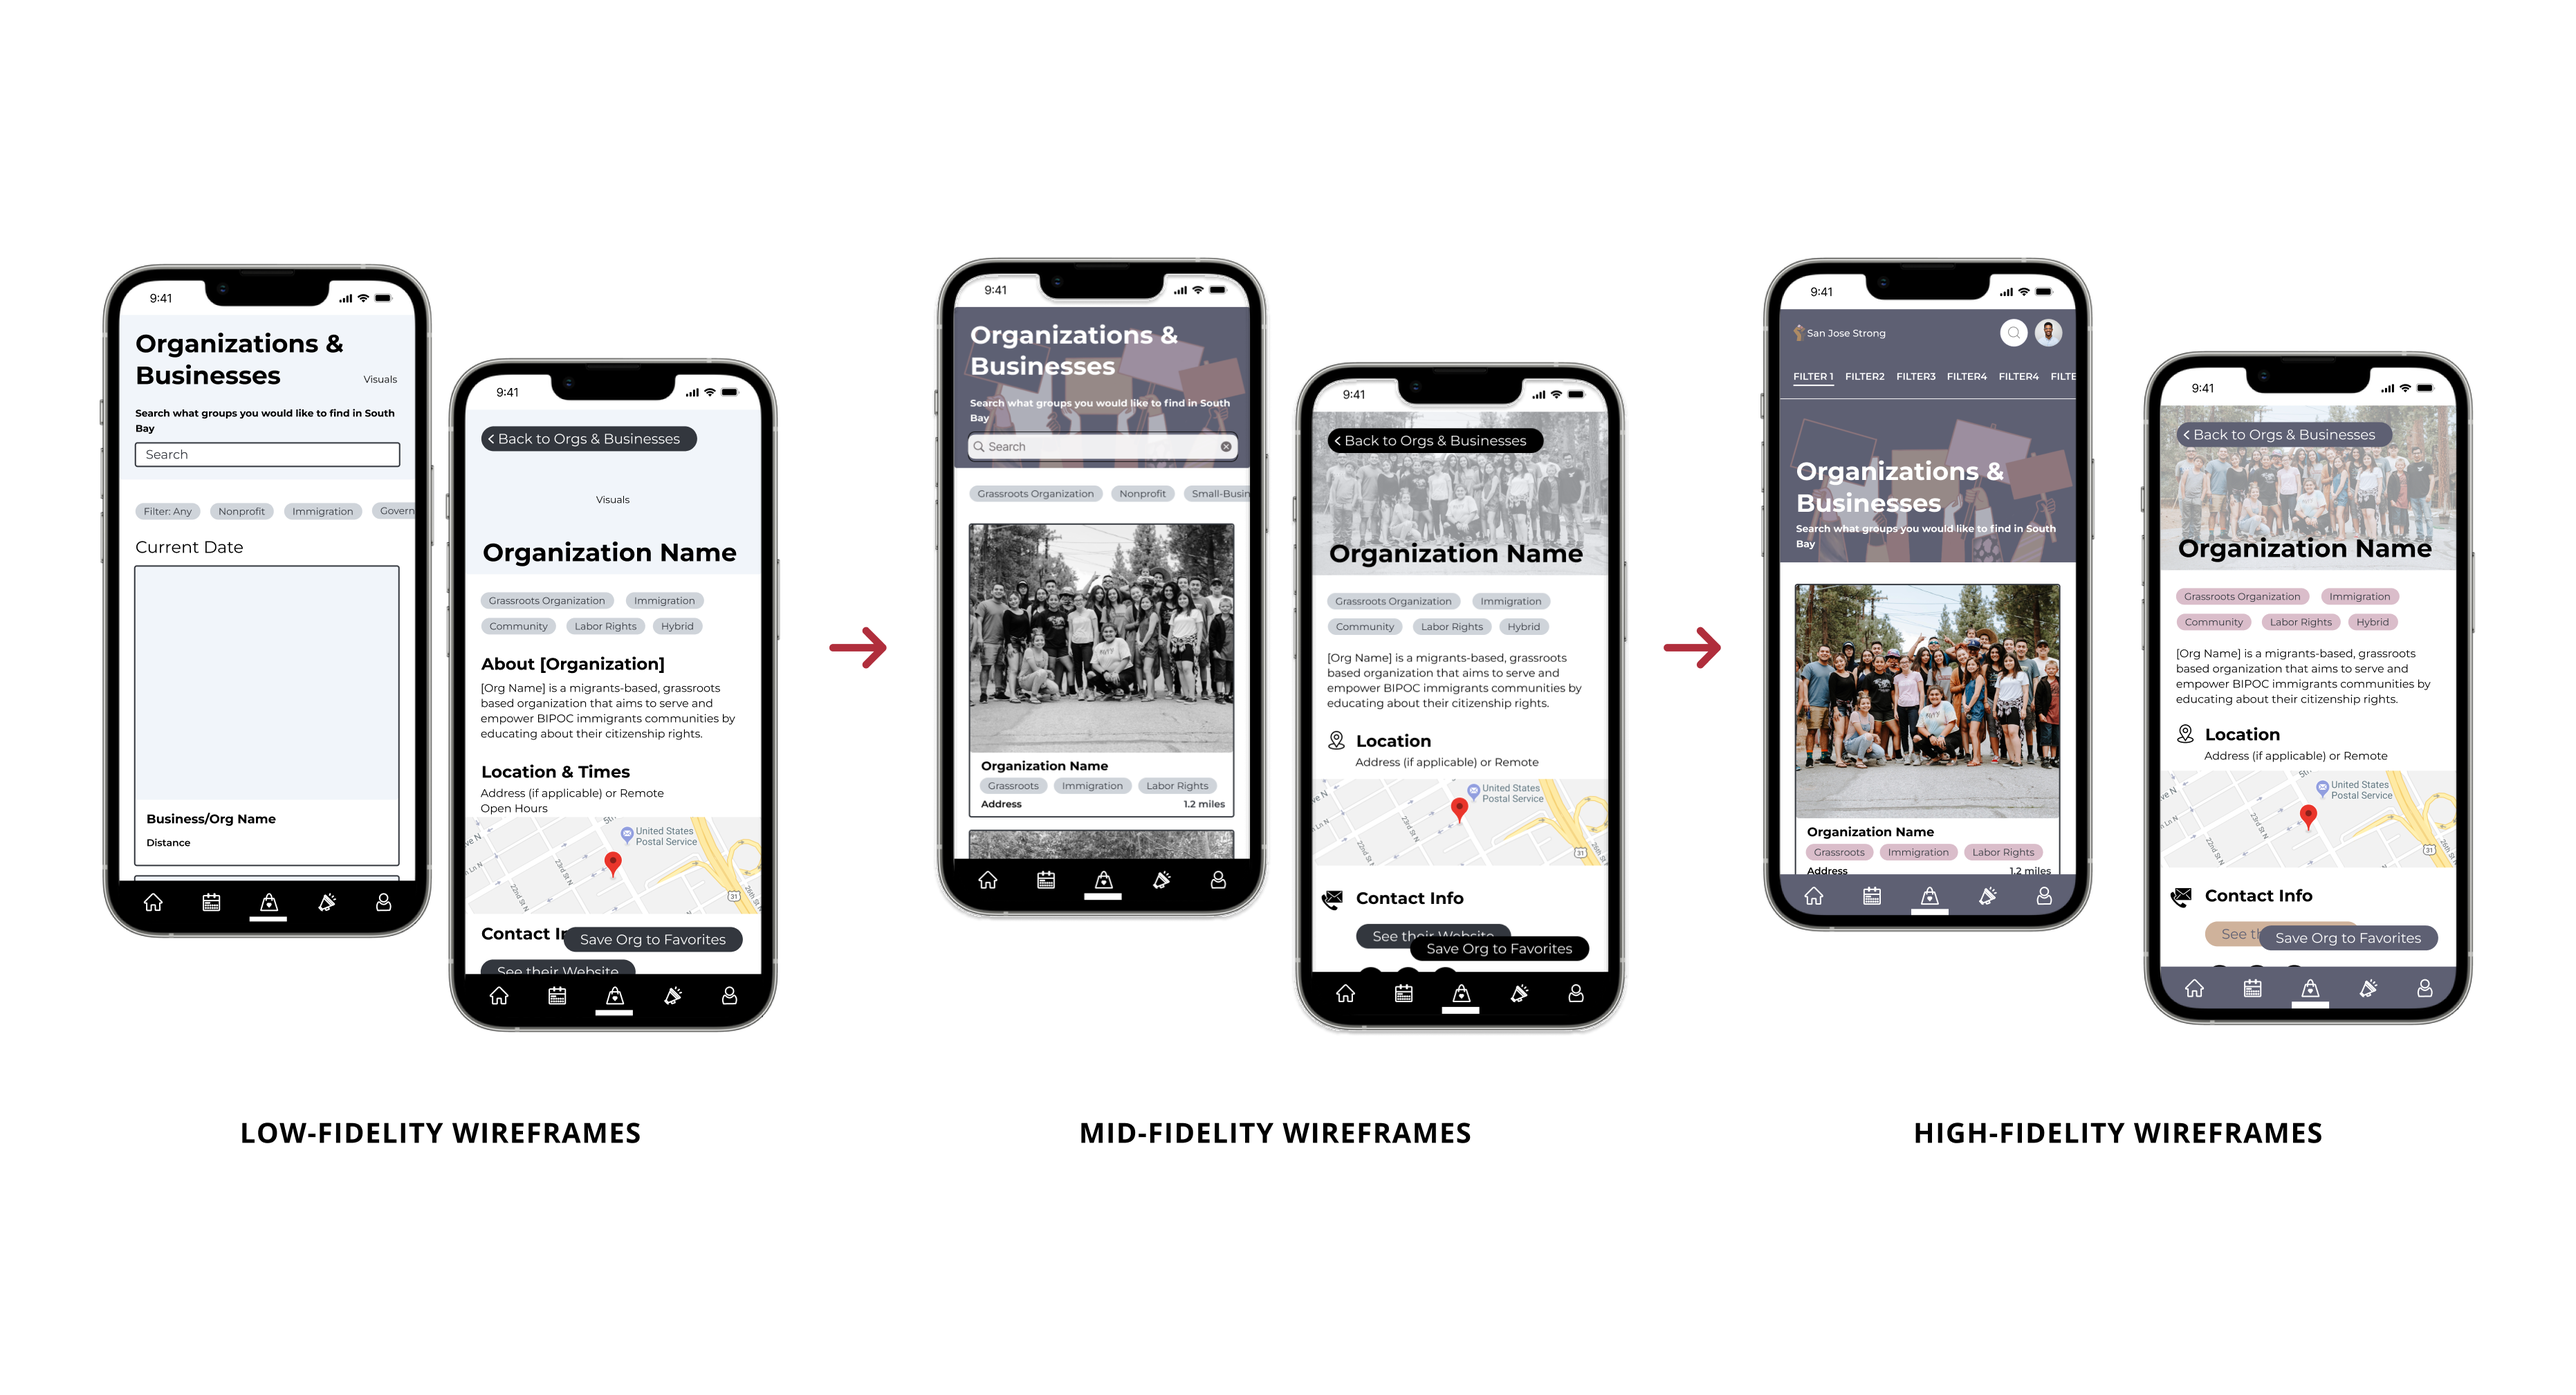
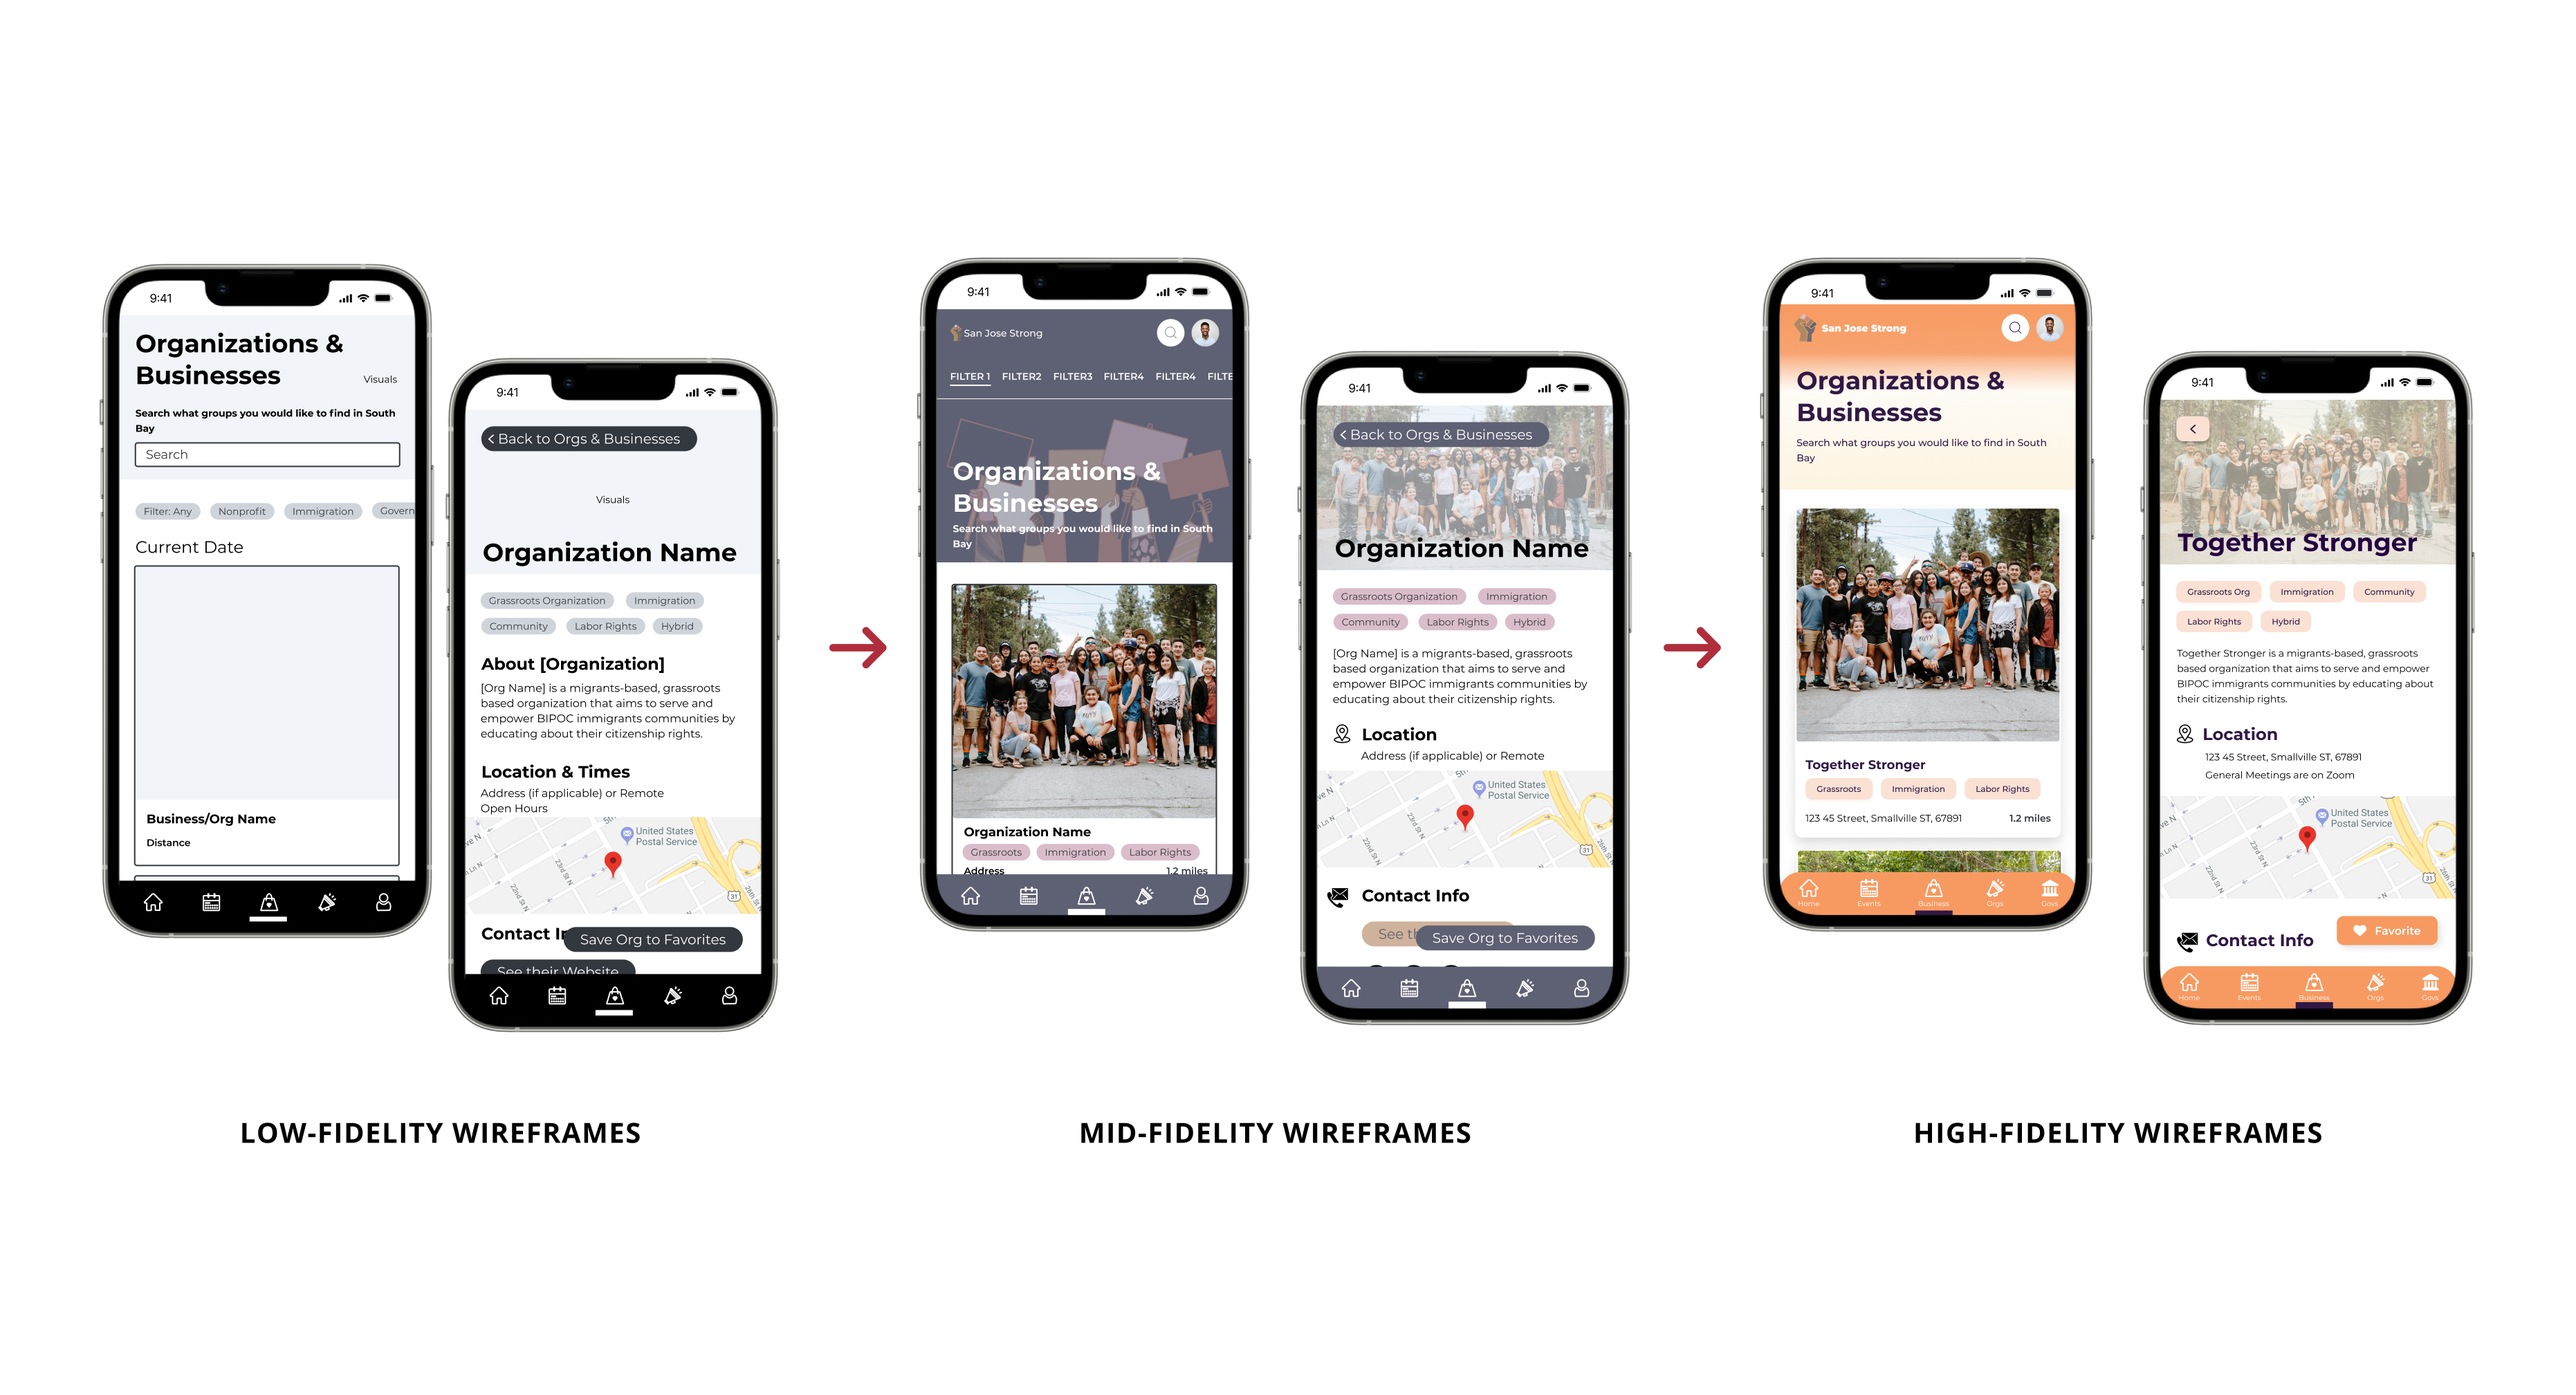
updated thumbnails

Changed region(s): [[0.3426, 0.1874, 0.6541, 0.7496], [0.6853, 0.1874, 0.9656, 0.7496]]

diff --git a/social-impact-ux-portfolio.html b/social-impact-ux-portfolio.html
@@ -163,7 +163,7 @@
               <div class="card p-2">
                 <div class="card-image">
                   <figure class="image is-4by3">
-                    <img src="./assets/media/sjs-cs/Mid-Fi Thumbnail.png" alt="SJS Case Study Thumbnail">
+                    <img src="./assets/media/sjs-cs/SJS App Thumbnail.png" alt="SJS Case Study Thumbnail">
 </figure>
 </div>
                 <div class="card-content">
